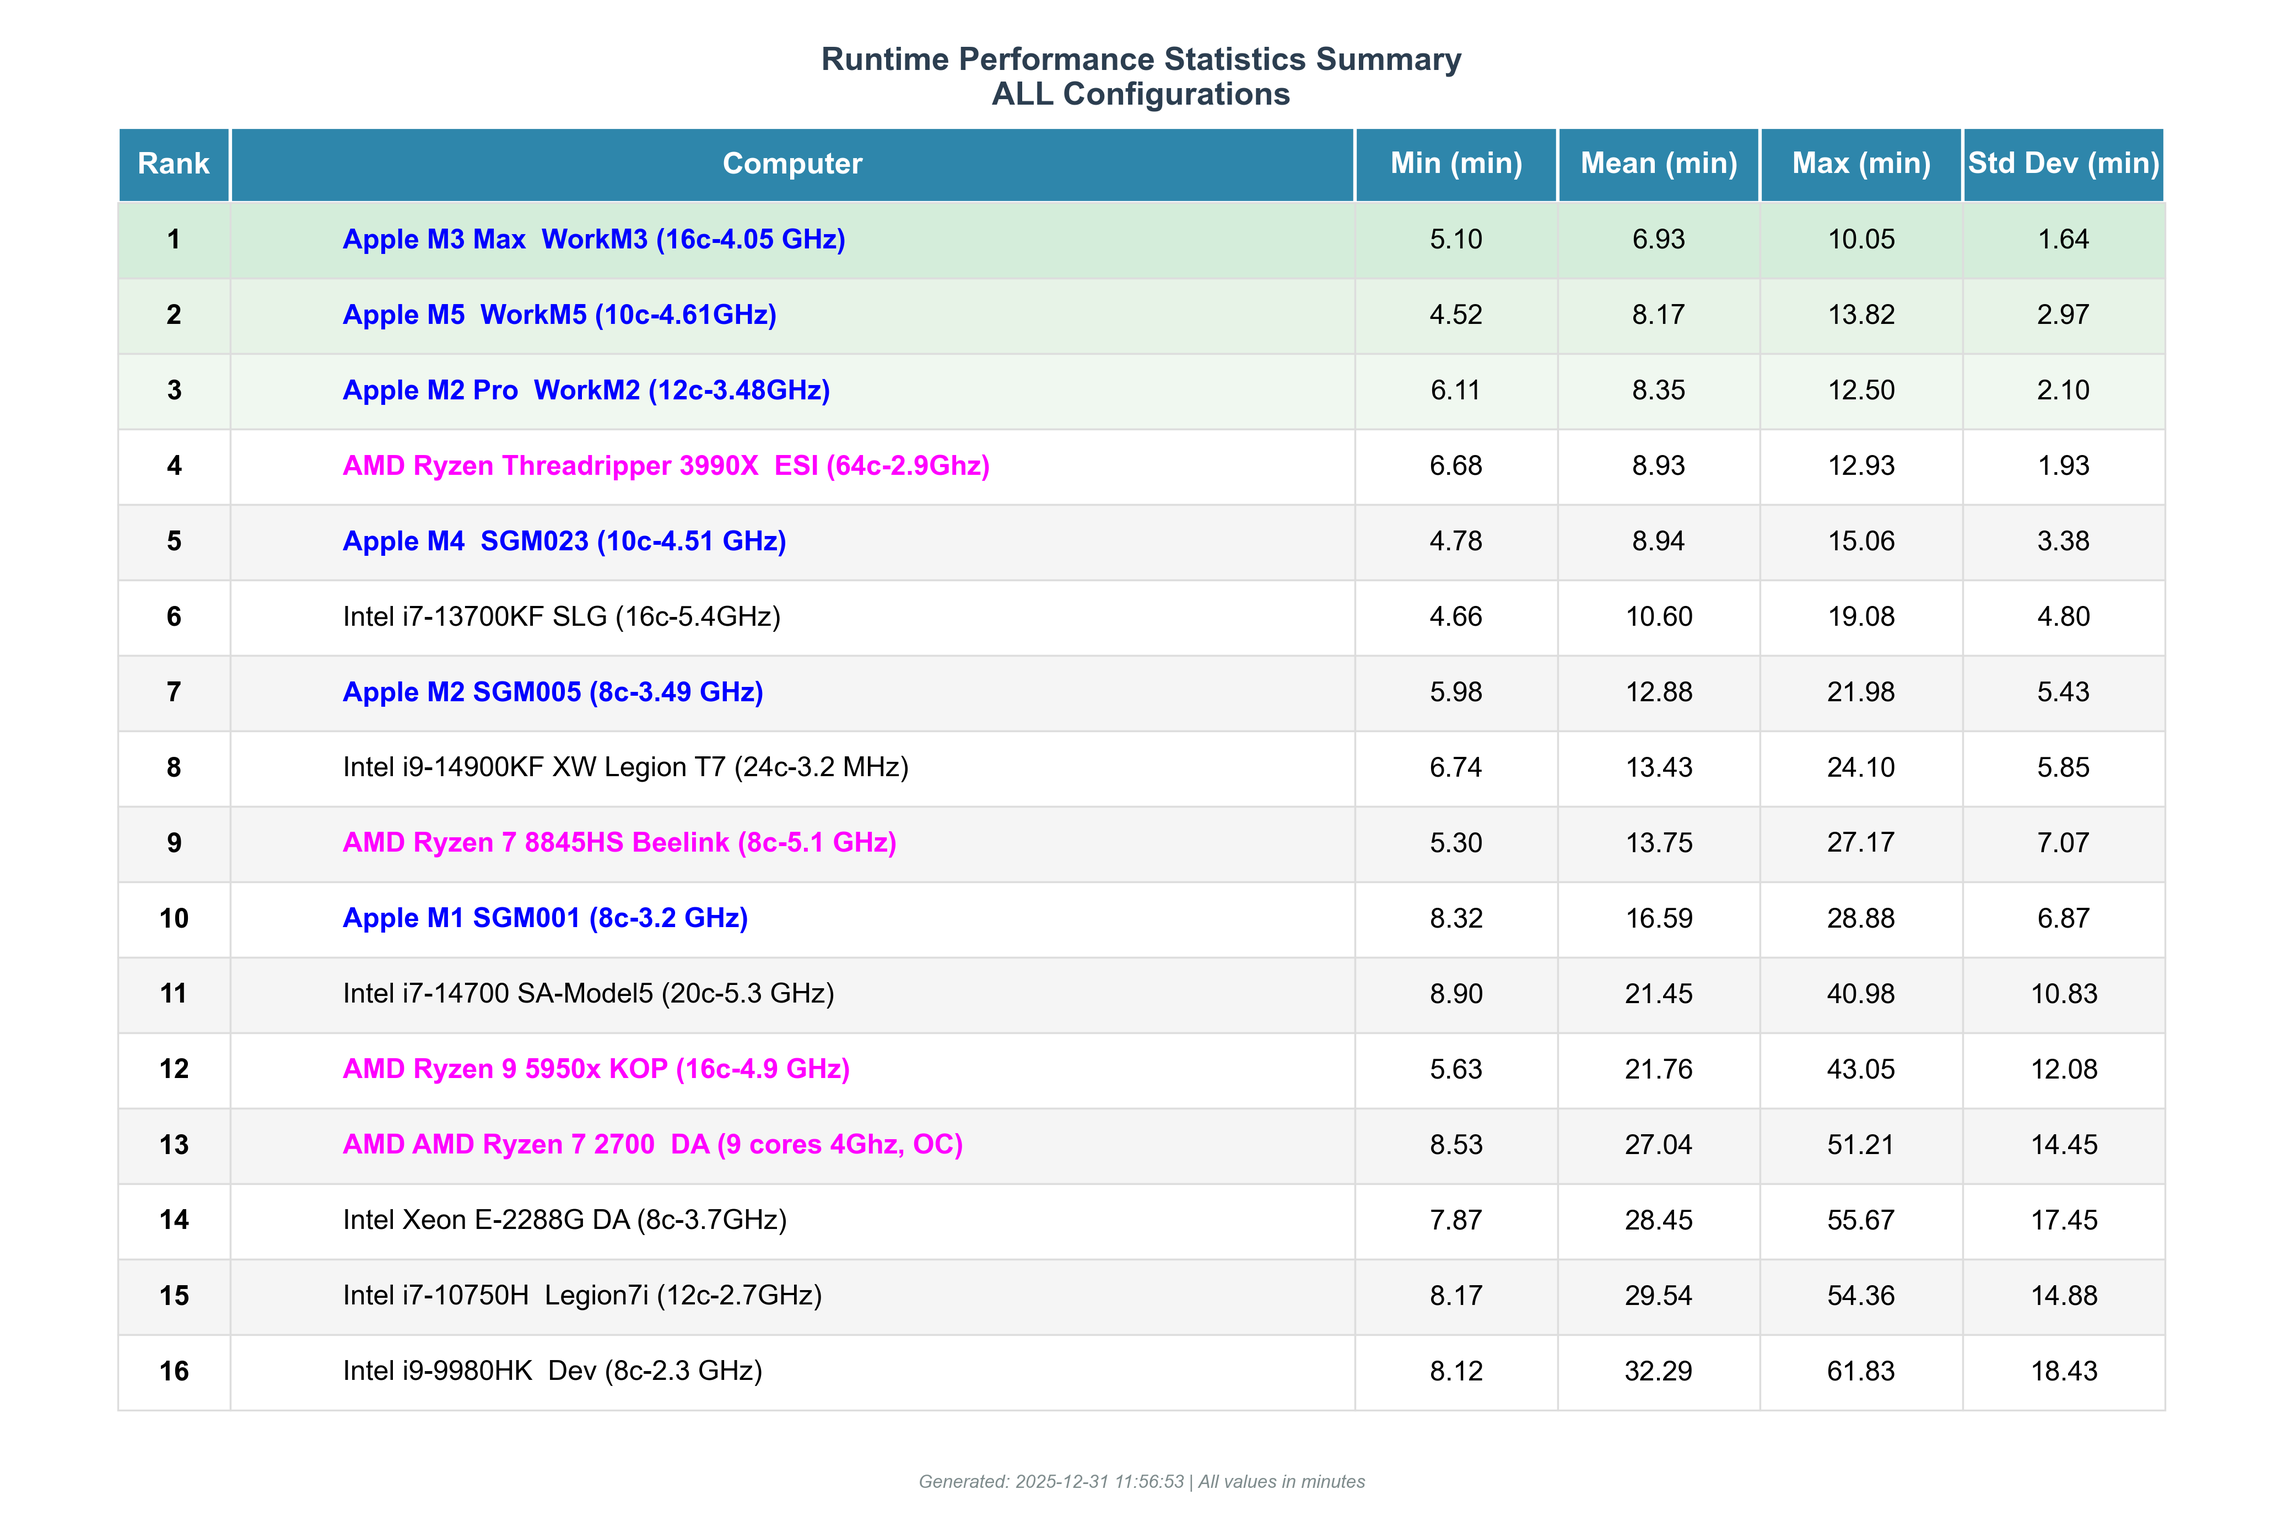
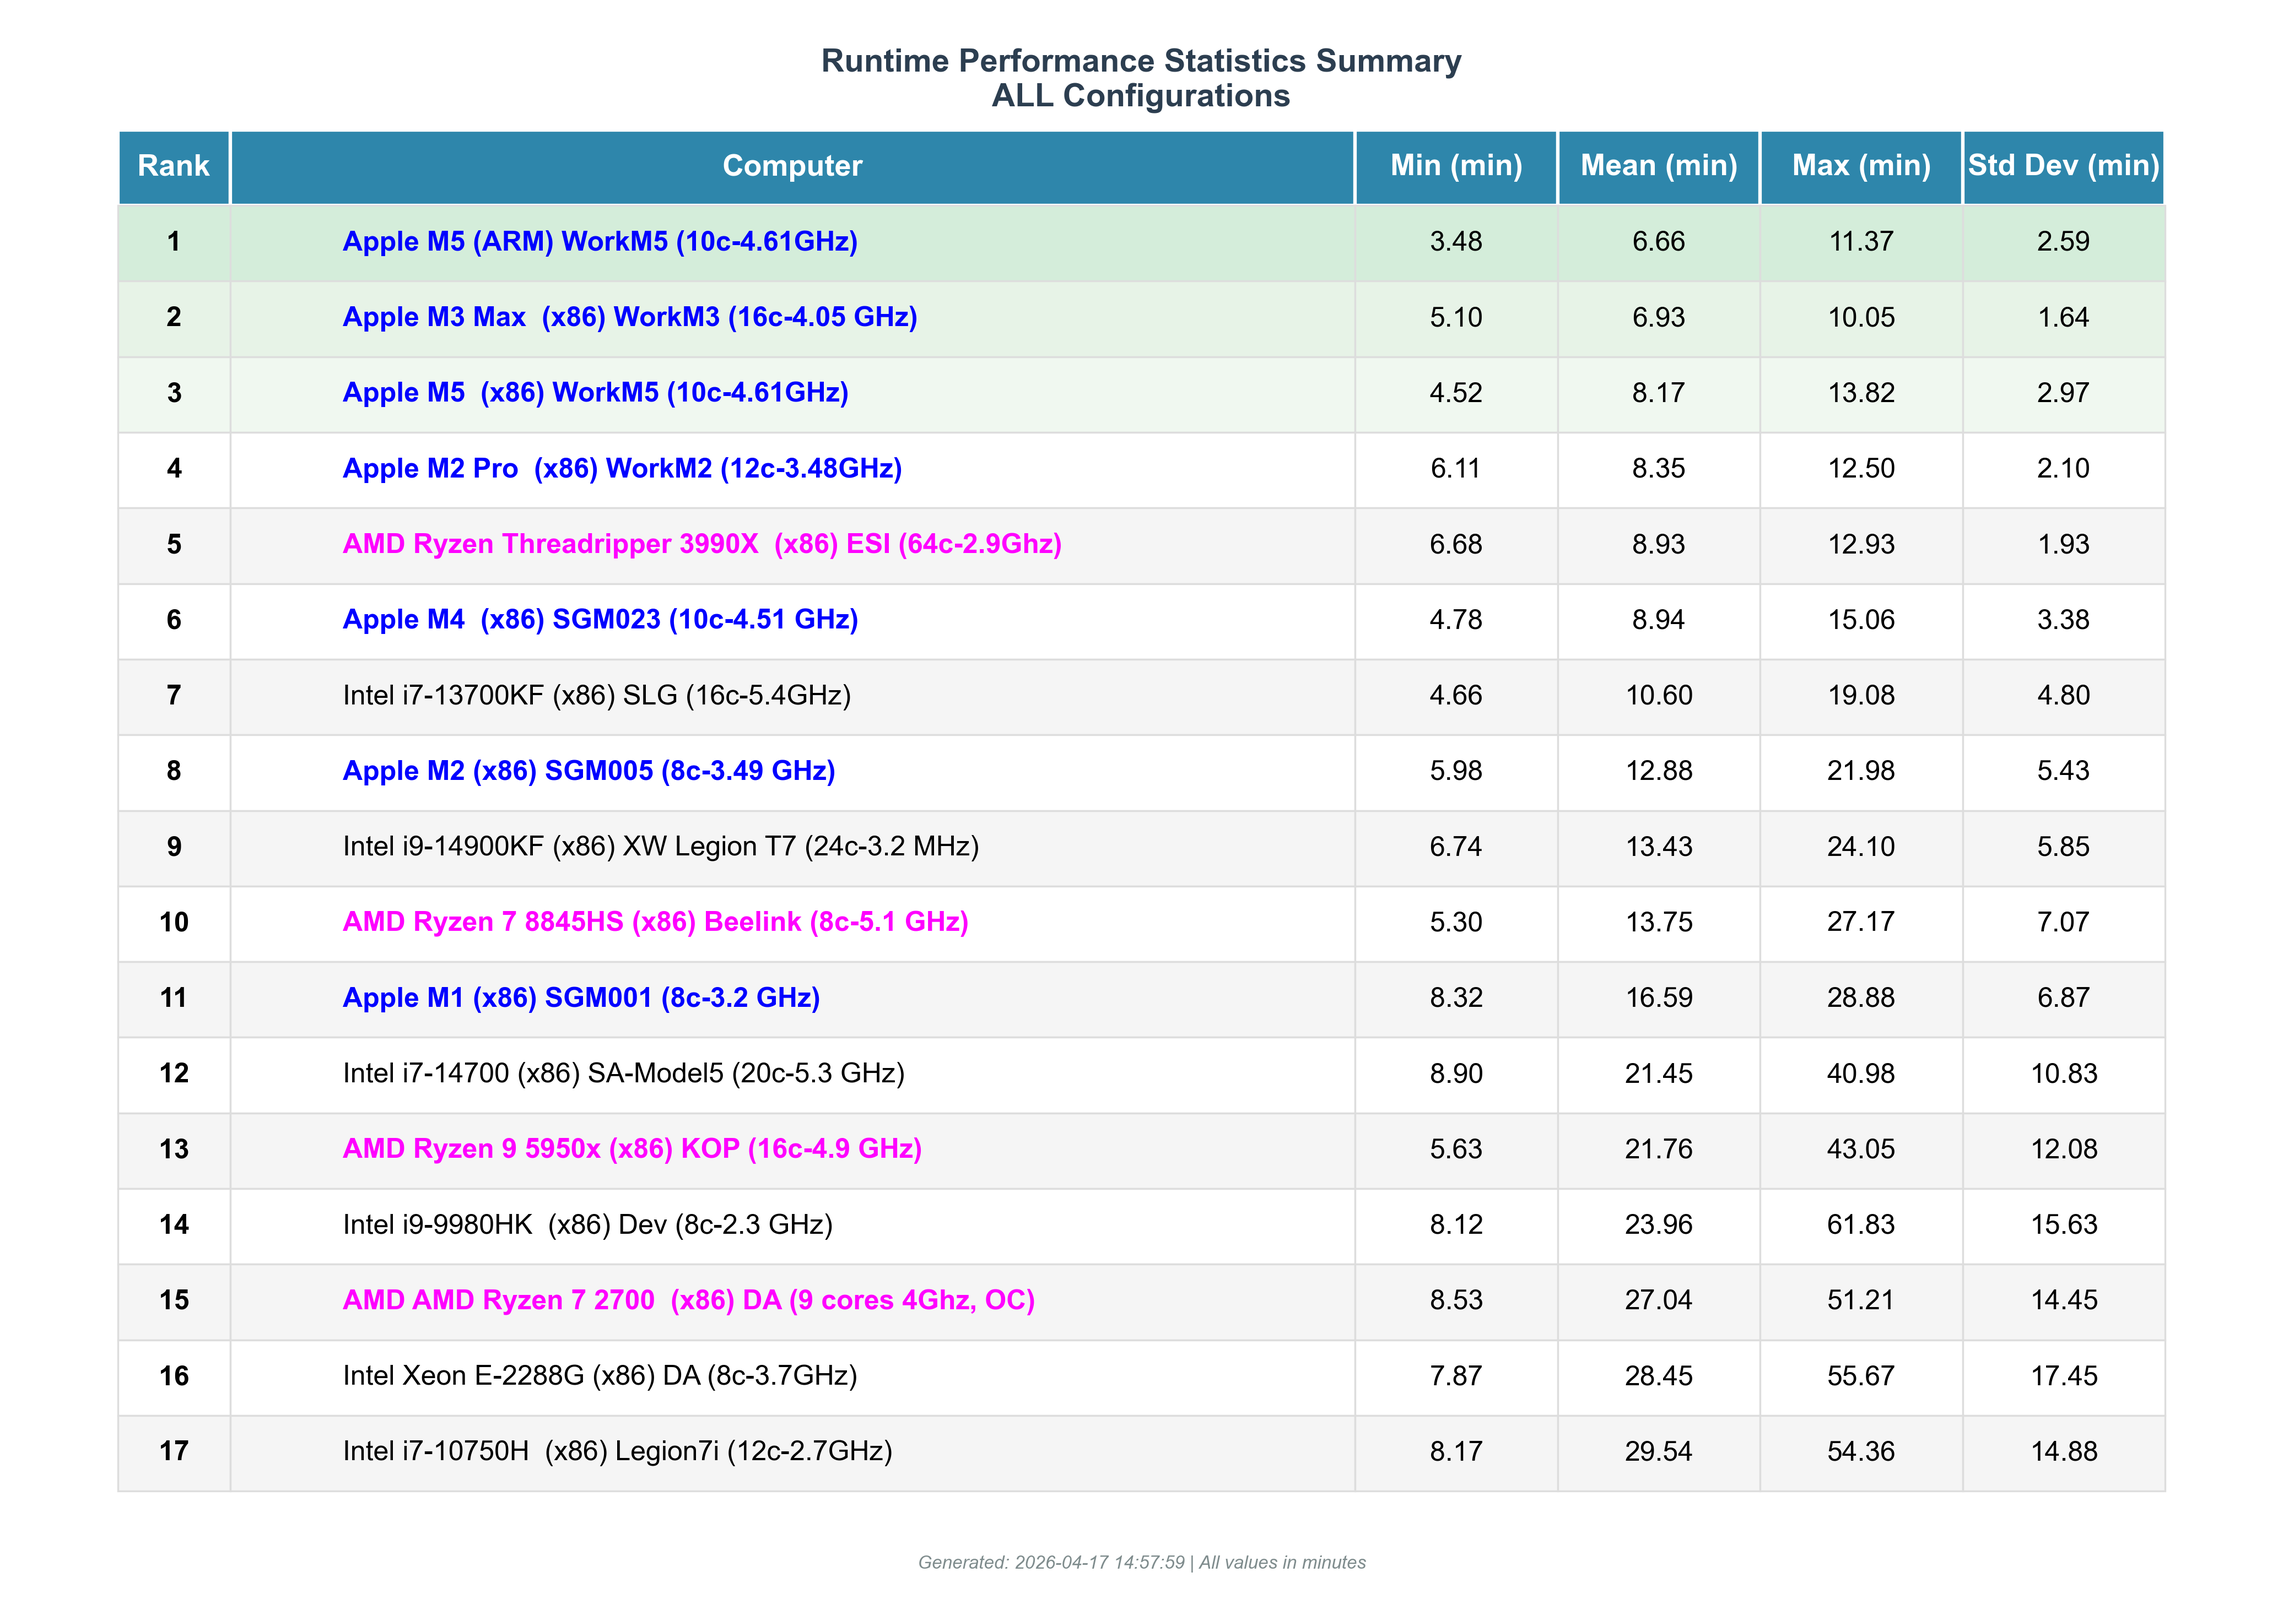
Update images with latest data; remove article figure references in README
images/: replace runtime_heatmap.png, runtime_statistics.png, and
runtime_best_lineplot.png with outputs from the current dataset (now
includes Test17 — M5 ARM native). All figures regenerated with the
(x86)/(ARM) exe-architecture labels in the heatmap y-axis.

README:
- Overview: reframe repo as community-maintained dataset that originated
  from the GW Technology Spotlight article but has expanded beyond it
- images/ description: remove "Figures used in the publication"
- Heatmap and statistics captions: remove "Figure 2 / Table 1 from the
  Technology Spotlight article" references; add note that figures now
  reflect the full current dataset including ARM native results
- Key Findings summary: add ARM native speedup bullet point

Scripts/Post-Proc/Outputs/: move intermediate run outputs to old_plots;
keep only the latest run for each plot type.

diff --git a/README.md b/README.md
@@ -3,7 +3,7 @@
 **A Performance Benchmark of Apple ARM Silicon vs. x86 Architectures for Groundwater Model Calibration**
 
 ## Overview
-This repository contains the benchmarking suite, automation scripts, and results database associated with the *Groundwater* journal Technology Spotlight article: *"Emerging Architectures: A Performance Benchmark of Apple ARM Silicon for Groundwater Modeling"* ([doi:10.1111/gwat.70061](https://ngwa.onlinelibrary.wiley.com/doi/10.1111/gwat.70061)).
+This repository contains the benchmarking suite, automation scripts, and results database for a community-maintained hardware performance comparison for groundwater modeling. It originated from the *Groundwater* journal Technology Spotlight article *"Emerging Architectures: A Performance Benchmark of Apple ARM Silicon for Groundwater Modeling"* ([doi:10.1111/gwat.70061](https://ngwa.onlinelibrary.wiley.com/doi/10.1111/gwat.70061)), and has since been expanded beyond the published results — most notably with the addition of a native ARM64 binary for USG-Transport 1.8 and the first direct x86-vs-ARM comparisons on the same hardware.
 
 As groundwater modeling enters the "ensemble era" (PESTPP-IES, PEST_HP), computational bottlenecks have shifted from single-run times to the throughput of thousands of realizations. This project benchmarks consumer-grade ARM-based hardware (specifically Apple Silicon) against traditional x86 workstations to evaluate viability, cost-efficiency, and thermal stability for high-throughput PEST workflows.
 
@@ -14,7 +14,7 @@ As groundwater modeling enters the "ensemble era" (PESTPP-IES, PEST_HP), computa
     * `executables/`: Pre-compiled USG-TRANSPORT 1.8 binaries and automation scripts for Mac and Windows.
 * **`Runtimes/`**: Contains the master results spreadsheet (`ByscayneMode_Benchmarks.xlsx`).
 * **`Scripts/`**: Python notebooks for post-processing and generating the plots/statistics found in the article.
-* **`images/`**: Figures used in the publication.
+* **`images/`**: Benchmark visualizations, updated as new results are added.
 
 ## Benchmarking Methodology
 The protocol mimics the workload of a PEST parallel calibration agent using **USG-TRANSPORT 1.8**. The model is executed repeatedly, systematically increasing the number of simultaneous agents from 1 to 16 per machine.
@@ -113,21 +113,22 @@ A new **1-to-1 comparison plot** is available in `Scripts/Post-Proc/Runtime_Plot
 ## Key Findings & Visualization
 The benchmark results reveal a significant efficiency paradox between consumer ARM chips and high-end x86 workstations.
 
+> **Note:** all results in the published article used the x86 ifort binary (via Rosetta 2 on Apple Silicon). The figures below reflect the current state of the dataset, which now includes Test17 — the first M5 benchmark run with the native ARM64 binary.
+
 ### Runtime Heatmap
-The following heatmap illustrates runtime performance (in minutes) across 16 different hardware configurations. Green indicates faster runtimes; red indicates slower runtimes. Note the "thermal throttling" shift occurs much earlier on x86 chips compared to Apple Silicon.
+Runtime performance (in minutes) across all hardware configurations. Green = faster; red = slower. Note how the "thermal throttling" degradation slope appears much earlier on x86 chips than on Apple Silicon.
 
 ![Runtime Heatmap](images/runtime_heatmap.png)
-*(Figure 2 from the associated Technology Spotlight article)*
 
 ### Runtime Statistics
-Detailed statistical breakdown of runtime performance for all tested configurations.
+Statistical breakdown (min, mean, max, std dev) for all tested configurations, ranked by mean runtime.
 
 ![Runtime Statistics](images/runtime_statistics.png)
-*(Table 1 from the associated Technology Spotlight article)*
 
 ### Summary
 * **Thermal Stability:** ARM-based chips maintained nearly flat runtime slopes under load, whereas x86 chips often exhibited steep linear degradation due to thermal throttling.
 * **Cost Efficiency:** A consumer-grade **M4 Mac Mini** (~$600) achieved parity with a 64-core **AMD Threadripper 3990X** (~$4,000+) in parallel throughput tests (avg runtimes: 8.94 min vs 8.93 min).
+* **Native ARM binary:** switching from x86 ifort (Rosetta 2) to the native ARM64 gfortran binary on the M5 delivers a further **1.23× speedup** (mean runtime 19% shorter). See the new finding section above.
 
 ## Contributing
 We encourage the community to contribute their own results to expand this industry database. Please submit your benchmark results via a **Pull Request** containing your updated `ByscayneMode_Benchmarks.xlsx`.
